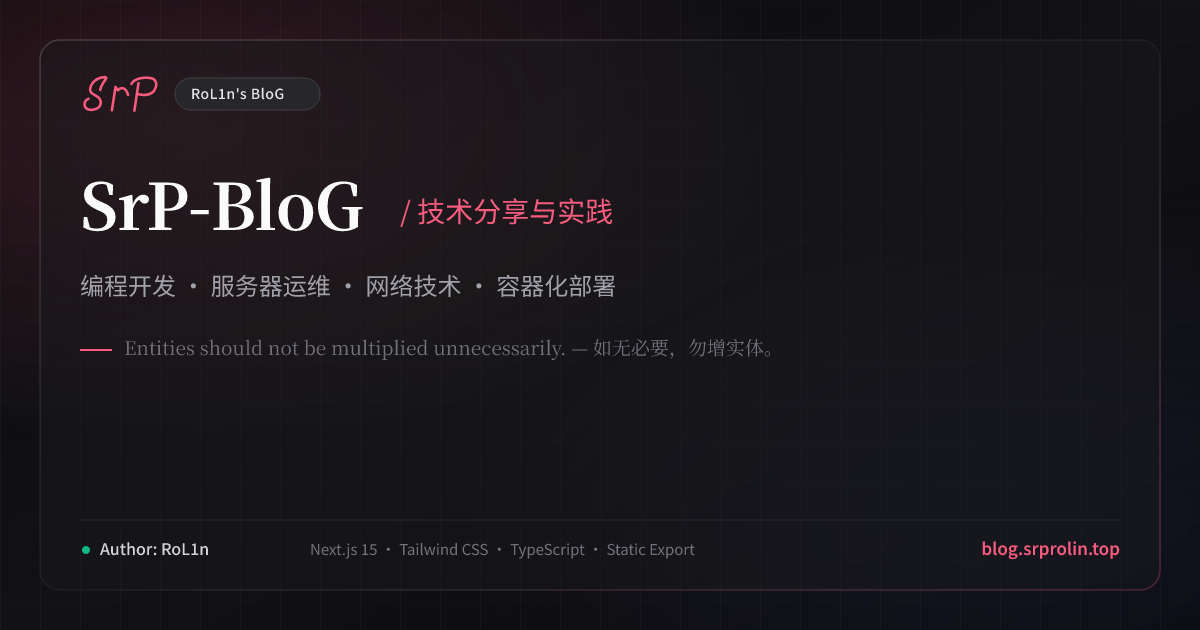
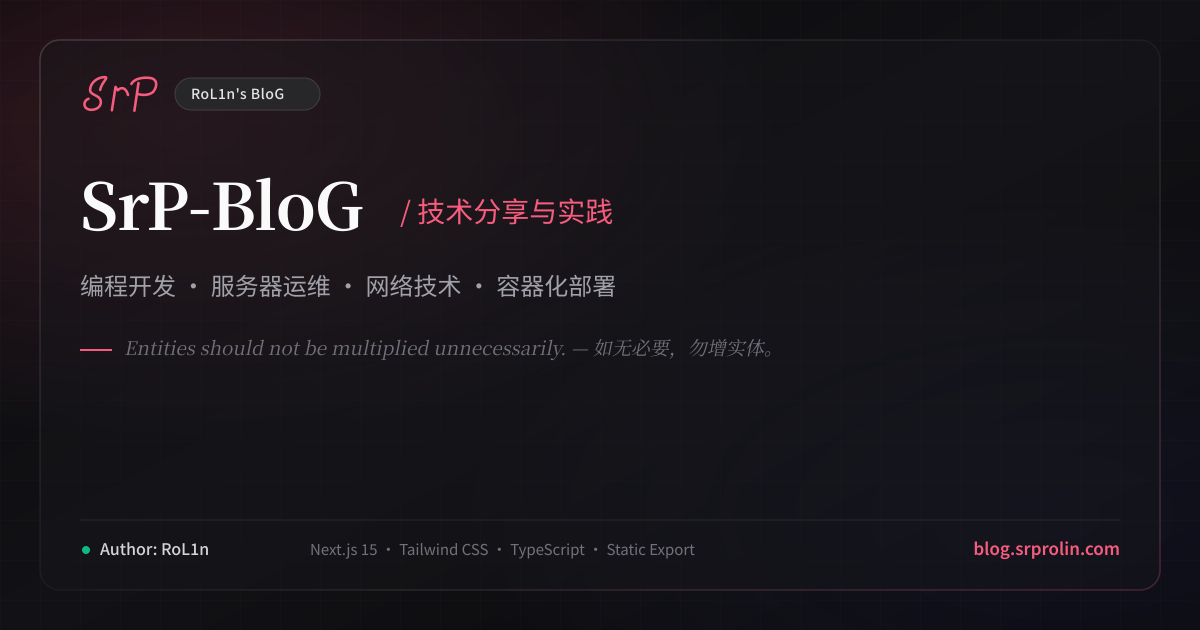
chore(domain): migrate srprolin.top -> srprolin.com
- wrangler: attach blog.srprolin.com as a Workers Custom Domain so the
  deploy creates the proxied DNS record + certificate (the new zone has none)
- site config: canonical url, homeUrl, friend-link identity, UPV api,
  Waline server URL
- CMS: site_url/display_url/logo_url and GitHub OAuth base_url
- UPV worker: route zone_name + ALLOWED_ORIGINS
- GitHub: friend-link issue templates/auto-pr fallback site URL
- content: rewrite in-post links to the new host
- assets: og.svg/og.png domain watermark; add IndexNow key file

Changed region(s): [[0.0925, 0.5429, 0.4625, 0.573], [0.8017, 0.8444, 0.925, 0.9048], [0.4933, 0.5429, 0.6475, 0.573]]

diff --git a/src/config/site.ts b/src/config/site.ts
@@ -110,7 +110,7 @@ export interface UpvConfig {
    */
   enabled: boolean;
   /**
-   * Base API URL of the UPV counting service (e.g. "https://upv.srprolin.top" or Workers URL).
+   * Base API URL of the UPV counting service (e.g. "https://upv.srprolin.com" or Workers URL).
    * If omitted or empty, automatically falls back to `process.env.NEXT_PUBLIC_UPV_API`.
    */
   api?: string;
@@ -141,7 +141,7 @@ export interface CommentConfig {
    */
   enabled: boolean;
   /**
-   * Waline server backend URL (e.g. "https://waline.srprolin.top" or Docker self-hosted endpoint).
+   * Waline server backend URL (e.g. "https://waline.srprolin.com" or Docker self-hosted endpoint).
    */
   serverUrl: string;
   /**
@@ -262,9 +262,9 @@ export const siteConfig = {
   /** Path to site favicon. */
   avatar: "/favicon/favicon.ico",
   /** Canonical base URL of the blog without trailing slash. */
-  url: "https://blog.srprolin.top",
+  url: "https://blog.srprolin.com",
   /** Personal homepage / external about link. */
-  homeUrl: "https://www.srprolin.top",
+  homeUrl: "https://www.srprolin.com",
   /** Open source repository URL of this blog. */
   repoUrl: "https://github.com/RolinShmily/SrP-BloG",
 
@@ -313,7 +313,7 @@ export const siteConfig = {
     { name: "Tags", href: "/tags", i18nKey: "tags" },
     { name: "Archives", href: "/archives", i18nKey: "archives" },
     { name: "Friends", href: "/friends", i18nKey: "friends" },
-    { name: "About", href: "https://www.srprolin.top", external: true, i18nKey: "about" },
+    { name: "About", href: "https://www.srprolin.com", external: true, i18nKey: "about" },
   ] as NavItem[],
   socials: [
     {
@@ -399,13 +399,13 @@ export const siteConfig = {
    */
   friendSiteInfo: {
     name: "SrP-BloG",
-    url: "https://blog.srprolin.top/",
+    url: "https://blog.srprolin.com/",
     description: {
       zh: "如无必要，勿增实体。",
       en: "Entities should not be multiplied unnecessarily.",
     },
-    avatar: "https://blog.srprolin.top/favicon/favicon.ico",
-    backlink: "https://blog.srprolin.top/friends/",
+    avatar: "https://blog.srprolin.com/favicon/favicon.ico",
+    backlink: "https://blog.srprolin.com/friends/",
   } as FriendSiteInfo,
   /** Quick application shortcuts on the /friends page. */
   friendApplication: {
@@ -443,13 +443,13 @@ export const siteConfig = {
      * from the NEXT_PUBLIC_UPV_API environment variable.
      *
      * Must be a host the Worker actually answers on. `services/upv` is bound to
-     * the zone route `stats.srprolin.top/*` (see services/upv/README.md, Workers
+     * the zone route `stats.srprolin.com/*` (see services/upv/README.md, Workers
      * -> Domains & Routes); its `<name>.<subdomain>.workers.dev` hostname is NOT
      * published, and a workers.dev request to an unpublished Worker returns a
      * bare 404 `error code: 1042`, which the client can only read as "offline" —
      * every counter then silently renders 0.
      */
-    api: "https://stats.srprolin.top",
+    api: "https://stats.srprolin.com",
     /** Whether to display the page views counter on article pages. */
     showPostCounter: true,
     /** Whether to display the page views counter on post listing cards. */
@@ -467,7 +467,7 @@ export const siteConfig = {
    */
   comment: {
     enabled: true,
-    serverUrl: "https://waline.srprolin.top",
+    serverUrl: "https://waline.srprolin.com",
     emoji: [
       "https://unpkg.com/@waline/emojis@1.4.0/weibo",
       "https://unpkg.com/@waline/emojis@1.4.0/bilibili",

diff --git a/src/app/globals.css b/src/app/globals.css
@@ -40,7 +40,7 @@
     "SFMono-Regular", "SF Mono", Menlo, Consolas, "Liberation Mono", "Courier New",
     "PingFang SC", "Microsoft YaHei", monospace;
 
-  /* Signature Pink Accent Tokens (mirrored from www.srprolin.top) */
+  /* Signature Pink Accent Tokens (mirrored from www.srprolin.com) */
   --accent-pink: #f75c7e;
   --accent-bright: #ff7eb3;
   --accent-soft: #ffa4c6;

diff --git a/content/posts/12-autoexec-1/index.md b/content/posts/12-autoexec-1/index.md
@@ -14,7 +14,7 @@ draft: false
 
 在Bilibili平台已发布该文件的部分功能的游戏实现演示，请移步访问：[BV19pCQB6EPZ](https://www.bilibili.com/video/BV19pCQB6EPZ/)
 
-如果您未知CFG是什么？或者SrP-CFG是什么？请移步访问前篇：[SrP-CFG 游戏设置预设文件 | CS2](https://blog.srprolin.top/posts/6-srp-cfg-1/)
+如果您未知CFG是什么？或者SrP-CFG是什么？请移步访问前篇：[SrP-CFG 游戏设置预设文件 | CS2](https://blog.srprolin.com/posts/6-srp-cfg-1/)
 
 截止文章发布时，最新版本为**v1.1.0**，以此为例进行功能说明。
 
@@ -26,10 +26,10 @@ draft: false
 
 因此该文件，也可以脱离**SrP-CFG**进行使用，但是我将不会提供单独的下载链接，如有需要，还请前往文档页进行下载**SrP-CFG**，再从中提取出**autoexec.cfg**单独使用：
 
-- [项目说明书](https://doc.srprolin.top/posts/6-srp-cfg-1/srpcfg-1.html) | 本项目的一些废话
-- [下载地址](https://doc.srprolin.top/posts/6-srp-cfg-1/srpcfg-2.html) | 顾名思义
-- [使用指南](https://doc.srprolin.top/posts/6-srp-cfg-1/srpcfg-3.html) | 按键、控制台命令功能表
-- [更新日志](https://doc.srprolin.top/posts/6-srp-cfg-1/srpcfg-4.html) | 查看最新更新
+- [项目说明书](https://doc.srprolin.com/posts/6-srp-cfg-1/srpcfg-1.html) | 本项目的一些废话
+- [下载地址](https://doc.srprolin.com/posts/6-srp-cfg-1/srpcfg-2.html) | 顾名思义
+- [使用指南](https://doc.srprolin.com/posts/6-srp-cfg-1/srpcfg-3.html) | 按键、控制台命令功能表
+- [更新日志](https://doc.srprolin.com/posts/6-srp-cfg-1/srpcfg-4.html) | 查看最新更新
 
 文件功能定义分区：
 - 鼠标相关设置
@@ -419,7 +419,7 @@ echo      \___ \  | '__| | |_) |  _____  | |     | |_    | |  _
 echo       ___) | | |    |  __/  |_____| | |___  |  _|   | |_| |
 echo      |____/  |_|    |_|              \____| |_|      \____|
 echo ══════════════════════════════════════════════════════════════════
-echo 文档地址：https://doc.srprolin.top/posts/6-srp-cfg-1/srpcfg-1.html
+echo 文档地址：https://doc.srprolin.com/posts/6-srp-cfg-1/srpcfg-1.html
 echo autoexec Enabled!
 echo ═════════════════════════════════════════════════════════════
 echo ──────────────────────  更新报告  ─────────────────────────────

diff --git a/content/posts/15-mac-mc-2/index.md b/content/posts/15-mac-mc-2/index.md
@@ -10,7 +10,7 @@ tags:
 draft: false
 ---
 # 前言
-之前发布过一篇在MacMini上借助mcsmanager管理Minecraft服务器的文章: [使用MacMini搭建Minecraft服务器](https://blog.srprolin.top/posts/14-mac-mc-1/) ，但是对于betterMC这样的大型forge整合包，通过JVM运行通常已经很吃内存了。
+之前发布过一篇在MacMini上借助mcsmanager管理Minecraft服务器的文章: [使用MacMini搭建Minecraft服务器](https://blog.srprolin.com/posts/14-mac-mc-1/) ，但是对于betterMC这样的大型forge整合包，通过JVM运行通常已经很吃内存了。
 
 又因为实测下来mcsmanager的管理操作其实并不是很好用，他在指令层也会套一层壳，这导致我前段时间误判了服务端JVM已经关闭，但是其并没有释放，在查看硬件后台之后才发现同时运行了多个JVM，导致负载极高且卡顿。
 
@@ -115,7 +115,7 @@ exec "${JAVA_EXEC}" ${JAVA_ARGS} @"${FORGE_UNIX_ARGS}" nogui
 注意：
 - 请将SERVER_DIR变量更改为你的服务器目录值
 - 请将JAVA_EXEC变量更改为你将使用的JAVA路径值
-- JAVA的安装和路径查找请到上篇文章 [使用MacMini搭建Minecraft服务器](https://blog.srprolin.top/posts/14-mac-mc-1/) 中自行查找
+- JAVA的安装和路径查找请到上篇文章 [使用MacMini搭建Minecraft服务器](https://blog.srprolin.com/posts/14-mac-mc-1/) 中自行查找
 
 随后我们可以将整个文件夹打包，上传至MacMini的SERVER_DIR目录并解压。
 

diff --git a/content/posts/10-sakura-mc-1/index.md b/content/posts/10-sakura-mc-1/index.md
@@ -11,7 +11,7 @@ draft: false
 
 该文章列写了`SrP-Sakura`的客户端和服务端所用的各种资源，详细的命令、按键功能、插件管理说明请到`Wiki`文档中查看:
 
-- [The Wiki For SrP-Sakura](https://doc.srprolin.top/posts/10-sakura-mc-1/ssmc-1.html) | (一个用`vitepress`搭建的文档页)
+- [The Wiki For SrP-Sakura](https://doc.srprolin.com/posts/10-sakura-mc-1/ssmc-1.html) | (一个用`vitepress`搭建的文档页)
 
 # SrP-Sakura 服务端
 
@@ -27,8 +27,8 @@ draft: false
 这并不是一个由公共服务器搭建的 Minecraft 游戏服，它仅搭建在我自己使用的设备上，因此它并不是 24h 开机，随我个人的意志开关服。
 服务器采用两种方案来提供网络地址：
 
-- 内网地址(需联系本人加入内网)：`lin.srprolin.top`
-- 外网地址(需联系本人开启服务器)：`minecraft.srprolin.top`
+- 内网地址(需联系本人加入内网)：`lin.srprolin.com`
+- 外网地址(需联系本人开启服务器)：`minecraft.srprolin.com`
 
 ## 核心与版本
 
@@ -104,7 +104,7 @@ draft: false
 
 # SrP-Sakura 客户端
 
-该**纯净生存辅助整合包**下载地址在[Wiki的附属整合包页](https://doc.srprolin.top/posts/10-sakura-mc-1/ssmc-2.html)中提供。
+该**纯净生存辅助整合包**下载地址在[Wiki的附属整合包页](https://doc.srprolin.com/posts/10-sakura-mc-1/ssmc-2.html)中提供。
 
 ## 启动器推荐
 

diff --git a/content/posts/37-claudecode-1/index.md b/content/posts/37-claudecode-1/index.md
@@ -165,14 +165,14 @@ Write-Output ""
 根据上文解耦的内容，并结合[mitmproxy](https://www.mitmproxy.org/)分析，我制作了如下的镜像安装脚本，你只需要在`powershell7`中运行命令即可：
 
 ```bash
-irm https://blog.srprolin.top/install-claude-mirror.ps1 | iex
+irm https://blog.srprolin.com/install-claude-mirror.ps1 | iex
 ```
 
 目前，该脚本的`claude.exe`已经不再提供支持，仅给出如下的离线脚本内容：
 
 ```PowerShell
 # Claude Code 国内镜像安装脚本
-# 用法: irm https://blog.srprolin.top/install.ps1 | iex
+# 用法: irm https://blog.srprolin.com/install.ps1 | iex
 
 Set-StrictMode -Version Latest
 $ErrorActionPreference = "Stop"
@@ -180,7 +180,7 @@ $ProgressPreference = 'SilentlyContinue'
 
 $VERSION = "2.1.181"
 $DOWNLOAD_URL = "https://path/to/claude.exe"
-$REFERER = "https://blog.srprolin.top"
+$REFERER = "https://blog.srprolin.com"
 
 if (-not [Environment]::Is64BitProcess) {
     Write-Error "Claude Code does not support 32-bit Windows."

diff --git a/content/posts/51-git-ssh-1/index.md b/content/posts/51-git-ssh-1/index.md
@@ -66,7 +66,7 @@ git remote add <远程仓库名> <远程git链接>
 
 一般在编码场景，也就是个人远程仓库，推荐使用`SSH`链接，可以免密码进行代码推送。
 
-根据博文 [如何安全地使用SSH、SFTP？ ](https://blog.srprolin.top/posts/11-ssh-1/)可以创建好一个SSH密钥对，只需要将公钥pub内容，在GitHub的 [SSH and GPG keys](https://github.com/settings/keys) 页面上传`Authentication Key`验证格式即可。
+根据博文 [如何安全地使用SSH、SFTP？ ](https://blog.srprolin.com/posts/11-ssh-1/)可以创建好一个SSH密钥对，只需要将公钥pub内容，在GitHub的 [SSH and GPG keys](https://github.com/settings/keys) 页面上传`Authentication Key`验证格式即可。
 
 这里的 `GPG keys` 是用来验证每一条远程仓库的`Commit`是否属于账户本人签名过的提交，在GitHub上可以将SSH密钥也作为GPG来使用，只需在创建keys时，选择`Signing Key`签名格式，再将SSH公钥上传。
 

diff --git a/SECURITY.md b/SECURITY.md
@@ -1,6 +1,6 @@
 # 安全政策
 
-> English readers: report privately to rol1n@srprolin.top — do **not** open a public issue.
+> English readers: report privately to rol1n@srprolin.com — do **not** open a public issue.
 
 ## 支持范围
 
@@ -10,7 +10,7 @@
 
 **请勿开公开 issue**：公开披露会让问题在修复前就暴露。
 
-**首选：邮件 [rol1n@srprolin.top](mailto:rol1n@srprolin.top)**（主题写 `[SECURITY] 一句话简述`，正文说明影响范围与复现步骤）。
+**首选：邮件 [rol1n@srprolin.com](mailto:rol1n@srprolin.com)**（主题写 `[SECURITY] 一句话简述`，正文说明影响范围与复现步骤）。
 
 **备选：GitHub 私有漏洞报告** —— 直接访问 <https://github.com/RolinShmily/SrP-BloG/security/advisories/new>，或仓库页面 → **Security** → **Report a vulnerability**（该功能需在仓库设置中开启；若看不到入口即为未开启）。
 

diff --git a/content/posts/26-pve-openwrt-1/index.md b/content/posts/26-pve-openwrt-1/index.md
@@ -175,7 +175,7 @@ vi /etc/config/network
 
 我们要先对路由器进行一些设置，用网线连接PC与路由器，查看网关，在浏览器中输入网关地址，进入路由器后台。
 
-随后可以参考之前的文章 [家庭网络连接 | 路由器接入方式 | 旁路由上网 | Router](https://blog.srprolin.top/posts/22-router-1/) 中，关于 **LAN口入网** 的详细配置。
+随后可以参考之前的文章 [家庭网络连接 | 路由器接入方式 | 旁路由上网 | Router](https://blog.srprolin.com/posts/22-router-1/) 中，关于 **LAN口入网** 的详细配置。
 
 主流路由器现在都有工作模式选择的权利，以我使用的 **锐捷 RG-MA3063(中国移动)** 为例，就可以直接选择 **桥模式**，以避免繁杂的DHCP与IP设置。
 

diff --git a/services/upv/README.md b/services/upv/README.md
@@ -217,9 +217,9 @@ renders every counter as `0` — so re-verify after any change:
 
 ```bash
 # allowed origin is echoed, not "*"
-curl -sD- -o /dev/null -H "Origin: https://blog.srprolin.top" https://stats.srprolin.top/api/health | grep -i access-control-allow-origin
+curl -sD- -o /dev/null -H "Origin: https://blog.srprolin.com" https://stats.srprolin.com/api/health | grep -i access-control-allow-origin
 # a foreign origin gets no ACAO at all
-curl -sD- -o /dev/null -H "Origin: https://evil.example"      https://stats.srprolin.top/api/health | grep -i access-control-allow-origin
+curl -sD- -o /dev/null -H "Origin: https://evil.example"      https://stats.srprolin.com/api/health | grep -i access-control-allow-origin
 ```
 
 ### Abuse handling (honest limits)

diff --git a/content/posts/27-archlinux-1/index.md b/content/posts/27-archlinux-1/index.md
@@ -17,7 +17,7 @@ draft: false
 - [ZCF - Zero-Config Code Flow ](https://zcf.ufomiao.com/zh-CN/)
 
 # PVE创建ArchLinux虚拟机
-> 以下过程，继承自上篇文章 [PVE虚拟系统与OpenWrt配置 ](https://blog.srprolin.top/posts/26-pve-openwrt-1/) 安装好的PVE9.1
+> 以下过程，继承自上篇文章 [PVE虚拟系统与OpenWrt配置 ](https://blog.srprolin.com/posts/26-pve-openwrt-1/) 安装好的PVE9.1
 
 首先需要安装一个ArchLinux的镜像ISO文件，下面提供 [清华大学开源软件镜像站](https://mirrors.tuna.tsinghua.edu.cn/) 的下载地址:
 - [点击下载最新版 ArchLinux-x86_64.iso](https://mirrors.tuna.tsinghua.edu.cn/archlinux/iso/latest/archlinux-x86_64.iso)

diff --git a/content/posts/6-srp-cfg-1/index.md b/content/posts/6-srp-cfg-1/index.md
@@ -366,9 +366,9 @@ mp_weapons_glow_on_ground 1 // 开启地面武器的高亮显示功能
 
 你会需要的链接：
 
-- [官方网站 | cfg.srprolin.top](https://cfg.srprolin.top/)
-- [下载地址 | cfg.srprolin.top](https://cfg.srprolin.top/download)
-- [文档指南 | cfg.srprolin.top](https://cfg.srprolin.top/docs)
+- [官方网站 | cfg.srprolin.com](https://cfg.srprolin.com/)
+- [下载地址 | cfg.srprolin.com](https://cfg.srprolin.com/download)
+- [文档指南 | cfg.srprolin.com](https://cfg.srprolin.com/docs)
 
 下面是一些SrP-CFG-Installer-V3版本的一些程序页面：
 
